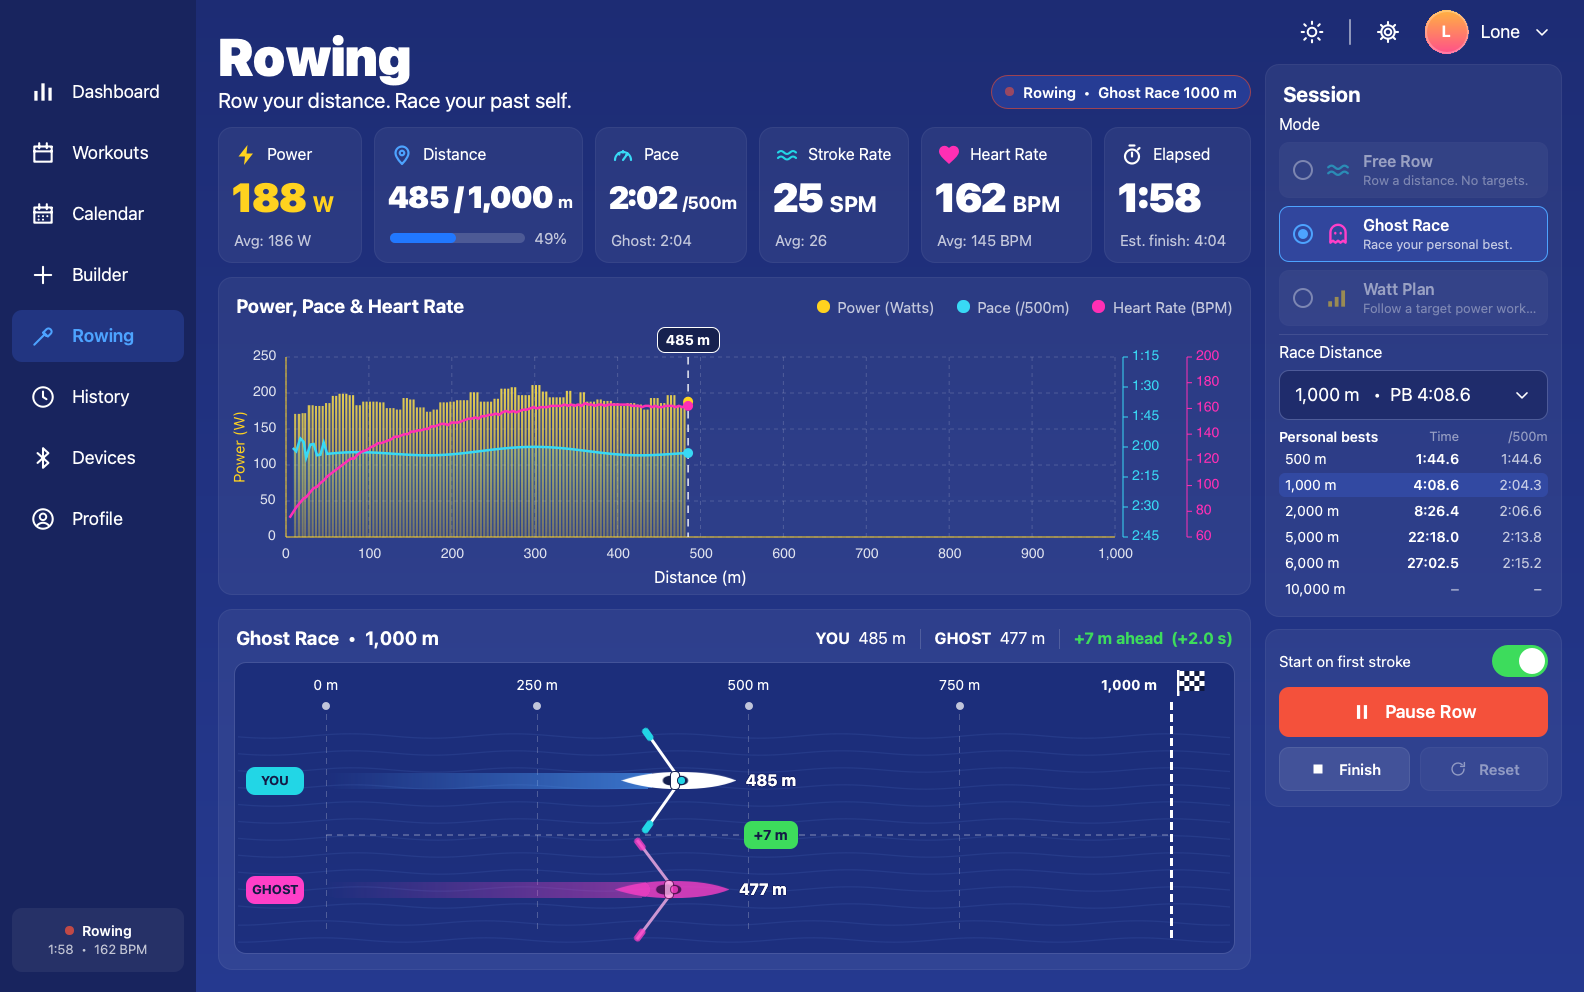
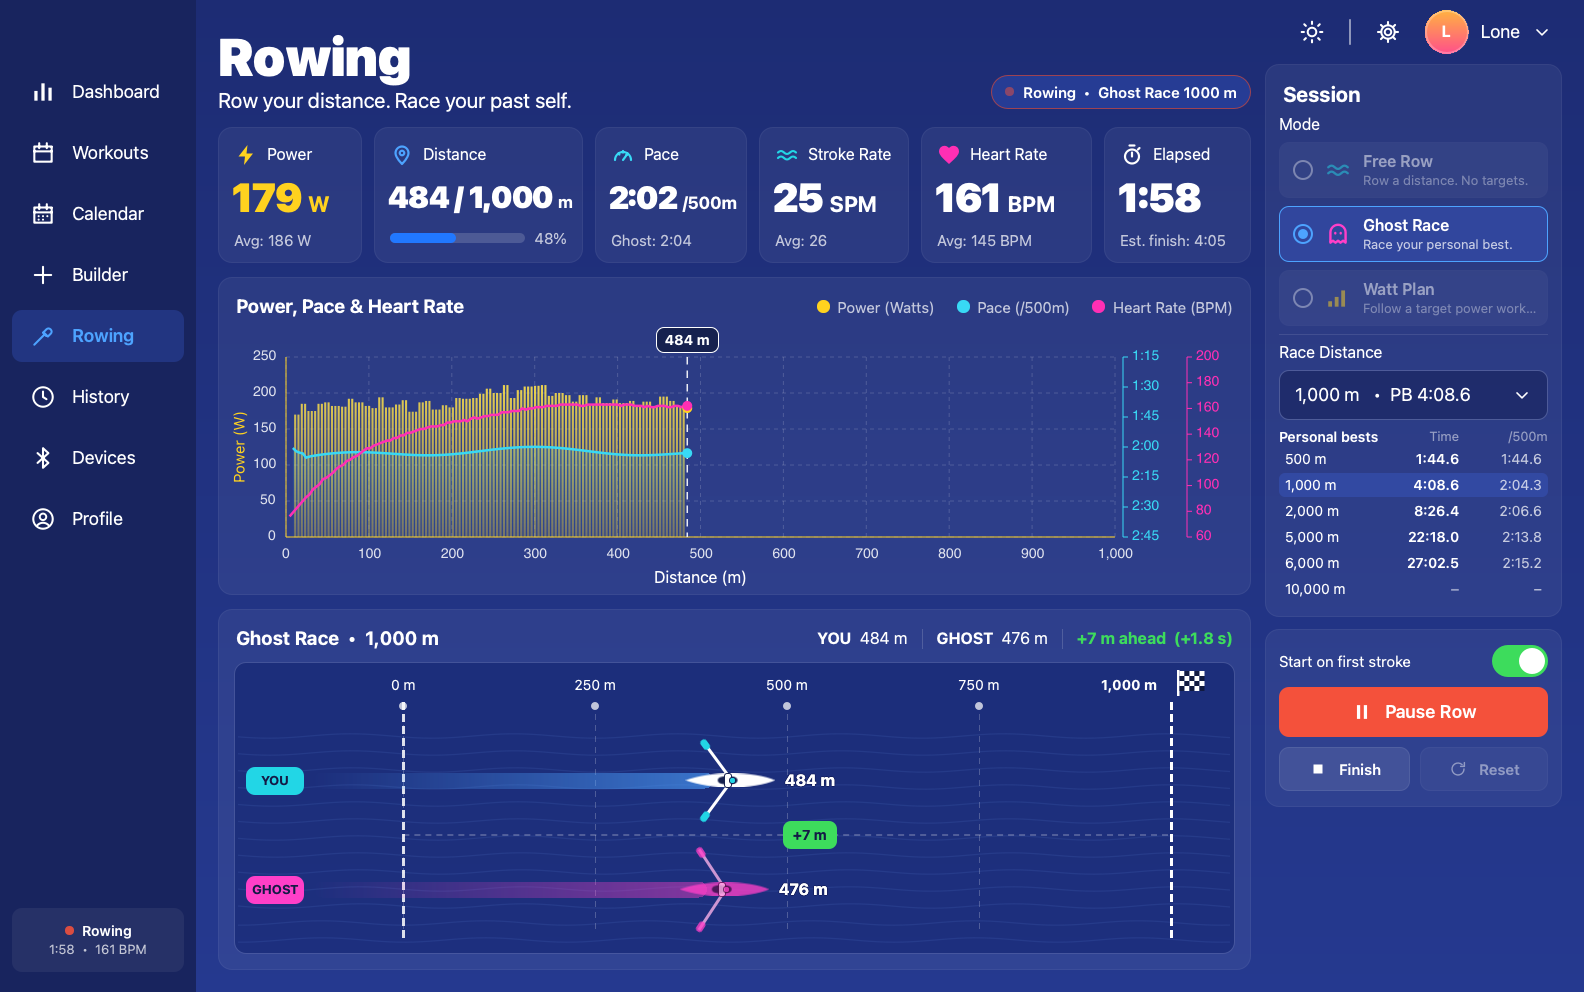
Align rowing boat bow with start/finish lines

diff --git a/qml/components/RowerTrack.qml b/qml/components/RowerTrack.qml
@@ -2,7 +2,8 @@ import QtQuick
 
 // Top view of a rowing course: distance ticks, a finish flag and one lane
 // ("YOU") or two lanes (YOU + translucent GHOST, see GhostRaceTrack.qml).
-// Boats move from the start to the finish line by metres rowed.
+// Boats move from the start to the finish line by metres rowed: the bow tip
+// sits exactly on the start line at 0 m and on the finish line at the target.
 Item {
     id: track
     property real totalMeters: 2000
@@ -17,17 +18,57 @@ Item {
     property string emptyGhostText: "No record yet – this row becomes your ghost"
     property string finishLabel: Theme.thousands(totalMeters) + " m"
 
-    readonly property real x0: 92
-    readonly property real x1: width - 64
     readonly property real laneTop: 64
     readonly property real laneBottom: height - 10
     readonly property int laneCount: showGhost ? 2 : 1
     readonly property real laneH: (laneBottom - laneTop) / laneCount
-    readonly property real boatLength: Math.max(60, Math.min(124, laneH * 1.05))
+    readonly property real boatLength: Math.max(46, Math.min(96, laneH * 0.82))
+    readonly property real pillRight: 12 + 58
+    // start line: the whole boat waits behind it, right of the name pill
+    readonly property real x0: pillRight + 10 + boatLength
+    readonly property real x1: width - 64
 
-    function xFor(m) {
-        return x0 + (x1 - x0) * Math.max(0, Math.min(1, m / Math.max(1, totalMeters)))
+    function progressFor(m) {
+        return Math.max(0, Math.min(1, m / Math.max(1, totalMeters)))
     }
+    function xFor(m) {
+        return x0 + (x1 - x0) * progressFor(m)
+    }
+
+    // --- smoothed positions ------------------------------------------------------
+    // Metrics arrive every 250 ms; the shown distances glide linearly between
+    // updates and snap (no backwards slide) on a reset or a new set-up.
+    readonly property int glideMs: 280
+    readonly property real youTarget: Math.max(0, Math.min(totalMeters, youMeters))
+    readonly property real ghostTarget: Math.max(0, Math.min(totalMeters, ghostMeters))
+    property real youShown: 0
+    property real ghostShown: 0
+    readonly property real youTipX: xFor(youShown)
+    readonly property real ghostTipX: xFor(ghostShown)
+
+    function glide(anim, prop, value) {
+        anim.stop()
+        var cur = track[prop]
+        if (value < cur || value - cur > totalMeters * 0.2)
+            track[prop] = value
+        else if (value !== cur) {
+            anim.from = cur
+            anim.to = value
+            anim.start()
+        }
+    }
+    function snap() {
+        youGlide.stop()
+        ghostGlide.stop()
+        youShown = youTarget
+        ghostShown = ghostTarget
+    }
+    onYouTargetChanged: glide(youGlide, "youShown", youTarget)
+    onGhostTargetChanged: glide(ghostGlide, "ghostShown", ghostTarget)
+    onTotalMetersChanged: snap()
+    Component.onCompleted: snap()
+    NumberAnimation { id: youGlide; target: track; property: "youShown"; duration: track.glideMs; easing.type: Easing.Linear }
+    NumberAnimation { id: ghostGlide; target: track; property: "ghostShown"; duration: track.glideMs; easing.type: Easing.Linear }
     function laneCenter(i) {
         return laneTop + laneH * (i + 0.5)
     }
@@ -101,6 +142,17 @@ Item {
         }
     }
 
+    // start line
+    Column {
+        x: track.x0 - 1
+        y: 40
+        spacing: 4
+        Repeater {
+            model: Math.max(0, Math.floor((track.height - 50) / 12))
+            Rectangle { width: 2.5; height: 8; color: "white"; opacity: 0.85 }
+        }
+    }
+
     // finish line + flag
     Item {
         x: track.x1
@@ -162,11 +214,10 @@ Item {
         Item {
             id: lane
             readonly property bool ghost: index === 1
-            readonly property real meters: ghost ? track.ghostMeters : track.youMeters
             readonly property color tint: ghost ? Theme.ghost : Theme.accentLight
             readonly property bool hasBoat: !ghost || track.ghostAvailable
-            readonly property real bowX: track.xFor(meters)
-            readonly property real boatX: Math.max(track.x0 - 6, bowX - track.boatLength)
+            readonly property real tipX: ghost ? track.ghostTipX : track.youTipX
+            readonly property real boatX: tipX - boat.tipOffset
             y: track.laneCenter(index)
             width: track.width
 
@@ -189,10 +240,10 @@ Item {
 
             // wake / trail
             Rectangle {
-                visible: lane.hasBoat && lane.boatX > track.x0
-                x: track.x0
+                visible: lane.hasBoat && lane.tipX > track.x0 + 1
+                x: track.x0 - boat.tipOffset
                 y: -8
-                width: Math.max(0, lane.boatX + track.boatLength * 0.3 - track.x0)
+                width: Math.max(0, lane.boatX + boat.tipOffset * 0.3 - x)
                 height: 16
                 radius: 8
                 gradient: Gradient {
@@ -203,6 +254,7 @@ Item {
             }
 
             RowingBoat {
+                id: boat
                 visible: lane.hasBoat
                 x: lane.boatX
                 y: -height / 2
@@ -218,9 +270,9 @@ Item {
 
             Text {
                 visible: lane.hasBoat
-                x: Math.min(lane.boatX + track.boatLength + 10, track.width - width - 8)
+                x: Math.min(lane.tipX + 10, track.width - width - 8)
                 y: -height / 2
-                text: Theme.thousands(Math.floor(lane.meters)) + " m"
+                text: Theme.thousands(Math.floor(lane.ghost ? track.ghostTarget : track.youTarget)) + " m"
                 color: Theme.text
                 font.pixelSize: 16
                 font.weight: Font.Bold
@@ -230,7 +282,7 @@ Item {
 
             Text {
                 visible: !lane.hasBoat
-                x: track.x0 + 20
+                x: track.pillRight + 14
                 y: -height / 2
                 text: track.emptyGhostText
                 color: Theme.textSecondary
@@ -252,9 +304,9 @@ Item {
 
     // gap marker between the boats
     Rectangle {
-        visible: track.showGhost && track.ghostAvailable && (track.youMeters > 0 || track.ghostMeters > 0)
-        readonly property real cx: Math.max(track.xFor(track.youMeters), track.xFor(track.ghostMeters))
-        x: Math.min(track.x1 - width, cx + 8)
+        visible: track.showGhost && track.ghostAvailable && (track.youShown > 0 || track.ghostShown > 0)
+        readonly property real cx: Math.max(track.youTipX, track.ghostTipX)
+        x: Math.min(track.width - width - 6, cx + 8)
         y: track.laneTop + track.laneH - height / 2
         width: gapText.implicitWidth + 20
         height: 28

diff --git a/qml/components/RowingIntervalChart.qml b/qml/components/RowingIntervalChart.qml
@@ -2,7 +2,9 @@ import QtQuick
 
 // Watt plan of a rowing workout: interval blocks (height = target watts,
 // colour = intensity zone), the rowed power on top and, below, a course line
-// on which the boat moves with elapsed / total time.
+// on which the boat moves with elapsed / total time. The bow tip marks the
+// elapsed time on the same axis as the blocks (start post = 0:00, finish
+// post = total); the hull trails into the left padding.
 Item {
     id: chart
     property var intervals: []          // {name,startSec,durationSec,watts,endWatts,percent,ramp}
@@ -14,7 +16,8 @@ Item {
     property int strokeCount: 0
     property int strokeRate: 24
 
-    readonly property real padL: 54
+    readonly property real boatLength: 42
+    readonly property real padL: Math.max(54, boatLength + 12)
     readonly property real padR: 54
     readonly property real blocksTop: 6
     readonly property real blocksBottom: height - 74
@@ -30,6 +33,24 @@ Item {
             m = Math.max(m, Number(powerSeries[j]))
         return Math.ceil(m * 1.12 / 50) * 50
     }
+    // elapsed time shown by the boat and cursor: glides between the 250 ms
+    // metric updates, snaps back on a reset or a new plan
+    readonly property real elapsedTarget: Math.max(0, Math.min(totalSec, elapsed))
+    property real shownElapsed: 0
+    onElapsedTargetChanged: {
+        glide.stop()
+        if (elapsedTarget < shownElapsed || elapsedTarget - shownElapsed > Math.max(2, totalSec * 0.2))
+            shownElapsed = elapsedTarget
+        else if (elapsedTarget !== shownElapsed) {
+            glide.from = shownElapsed
+            glide.to = elapsedTarget
+            glide.start()
+        }
+    }
+    onTotalSecChanged: { glide.stop(); shownElapsed = elapsedTarget }
+    Component.onCompleted: shownElapsed = elapsedTarget
+    NumberAnimation { id: glide; target: chart; property: "shownElapsed"; duration: 280; easing.type: Easing.Linear }
+
     function px(sec) { return padL + plotW * Math.max(0, Math.min(1, sec / Math.max(1, totalSec))) }
     function py(w) { return blocksTop + blocksH * (1 - Math.max(0, Math.min(1, w / wattsMax))) }
     function zoneFor(percent) {
@@ -169,8 +190,8 @@ Item {
 
     // elapsed cursor across blocks
     Rectangle {
-        visible: chart.elapsed > 0
-        x: chart.px(chart.elapsed) - 1
+        visible: chart.shownElapsed > 0
+        x: chart.px(chart.shownElapsed) - 1
         y: chart.blocksTop
         width: 2
         height: chart.laneY - chart.blocksTop
@@ -180,12 +201,12 @@ Item {
 
     // the boat on the course line
     Rectangle {
-        x: chart.padL
+        x: chart.padL - boat.tipOffset
         y: chart.laneY - 7
-        width: Math.max(0, boat.x + boat.width * 0.3 - chart.padL)
+        width: Math.max(0, boat.x + boat.tipOffset * 0.3 - x)
         height: 14
         radius: 7
-        visible: chart.elapsed > 0
+        visible: chart.shownElapsed > 0
         gradient: Gradient {
             orientation: Gradient.Horizontal
             GradientStop { position: 0; color: "transparent" }
@@ -194,8 +215,8 @@ Item {
     }
     RowingBoat {
         id: boat
-        boatLength: 54
-        x: Math.max(chart.padL - 4, chart.px(chart.elapsed) - boatLength)
+        boatLength: chart.boatLength
+        x: chart.px(chart.shownElapsed) - tipOffset
         y: chart.laneY - height / 2
         strokeCount: chart.strokeCount
         strokeRate: chart.strokeRate

diff --git a/qml/components/RowingBoat.qml b/qml/components/RowingBoat.qml
@@ -3,6 +3,8 @@ import QtQuick
 // Stylised single scull seen from above (bow pointing right) with a rower
 // and two oars. Every change of strokeCount plays one oar stroke
 // (drive + recovery) timed by the stroke rate.
+// The item spans the hull from stern (x = 0) to the bow tip (x = tipOffset):
+// tracks place it with x = tipX - tipOffset so the bow touches the line.
 Item {
     id: boat
     property color hullColor: "white"
@@ -12,13 +14,15 @@ Item {
     property int strokeCount: 0
     property int strokeRate: 24          // strokes per minute (animation timing)
     property bool animated: true
-    property real boatLength: 116
+    property real boatLength: 90
     // -1 = finish (blades toward the stern), +1 = catch (blades toward the bow)
     property real sweep: 0.15
 
     readonly property real hullHeight: boatLength * 0.15
     readonly property real oarLength: boatLength * 0.46
     readonly property real maxAngle: 38
+    // x of the bow tip inside the item (the hull ends in a point there)
+    readonly property real tipOffset: boatLength
 
     implicitWidth: boatLength
     implicitHeight: oarLength * 2 + 8
